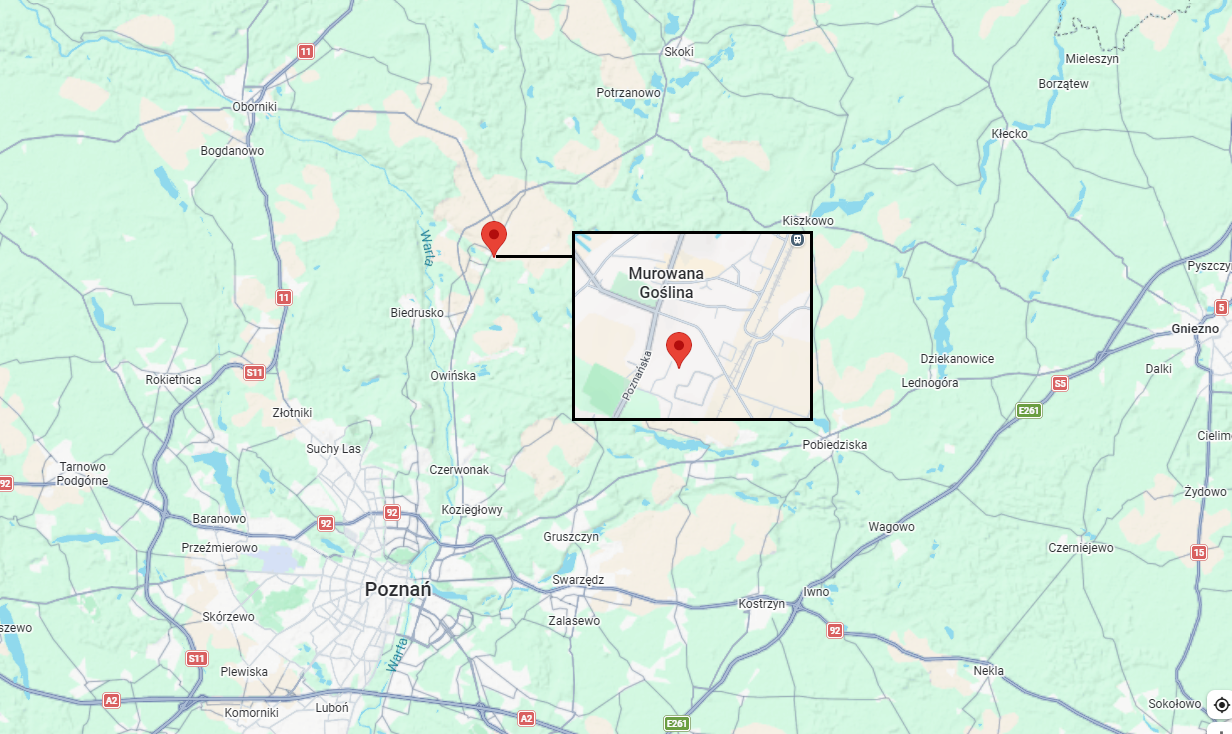
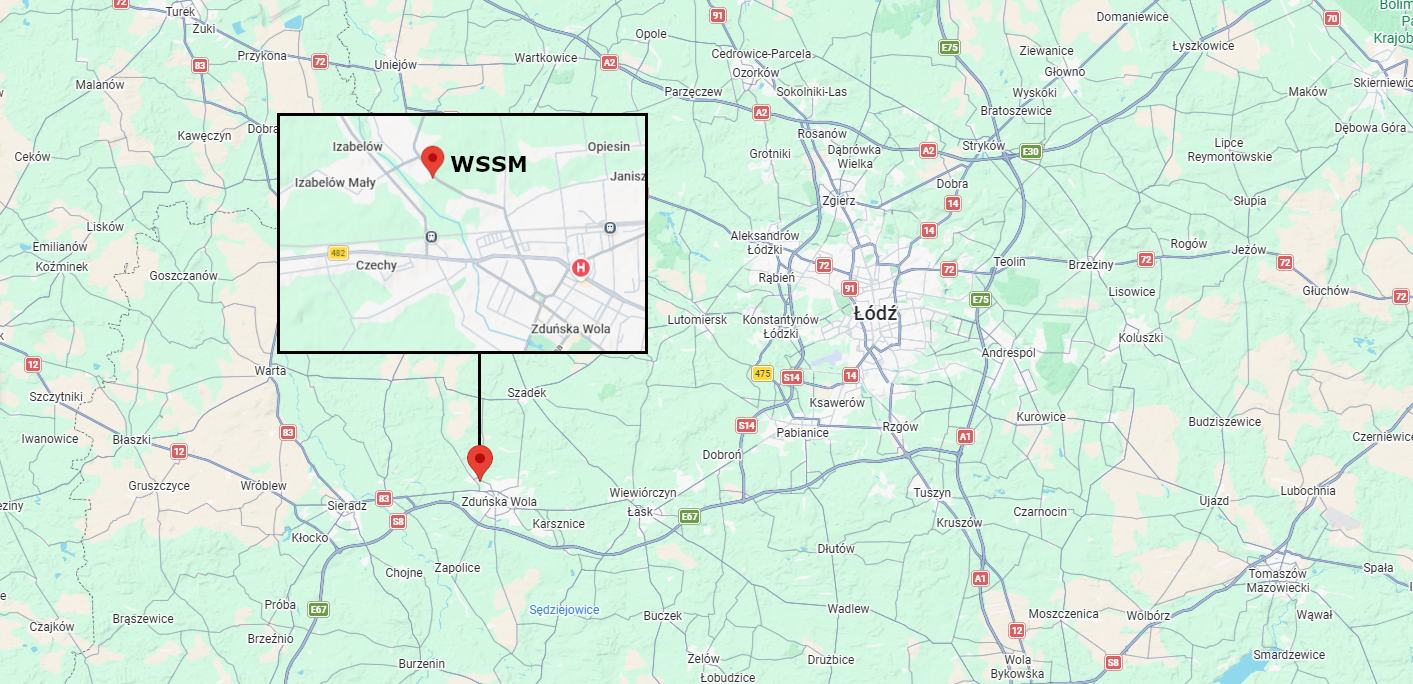
changes: location, contact, baner

diff --git a/js/app.js b/js/app.js
@@ -28,7 +28,7 @@ function showPage(page){
         app.innerHTML = `
           <h1>O firmie</h1>
           <div class="twoCol">
-            <img src="assets/baner.jpg" class="baner">
+            <img src="assets/baner.png" class="baner">
             <p>
               
               Lorem ipsum dolor sit amet consectetur adipisicing elit.
@@ -61,17 +61,61 @@ function showPage(page){
         break;
 
       case "kontakt":
-        app.innerHTML = `
-          <h1>Kontakt</h1>
-          <p>
-            WSSM Sp. z o.o.<br><br>
-            ul. Orlikowa 15<br>
-            98-220 Zduńska Wola<br><br>
-            Tel: +48 43 825 38 00<br>
-            sekretariat@wssm.pl
-          </p>
-        `;
-        break;
+  app.innerHTML = `
+    <style>
+      .kontakt-wrap {
+        display: flex;
+        justify-content: space-between;
+        gap: 40px;
+        flex-wrap: wrap;
+        margin-top: 20px;
+      }
+
+      .kontakt-box {
+        flex: 1;
+        min-width: 280px;
+        text-align: center;
+      }
+
+      .rejestry {
+        text-align: center;
+        margin-top: 40px;
+      }
+    </style>
+
+    <div class="kontakt-wrap">
+
+      <div class="kontakt-box">
+        <h1><b>Adres siedziby</b></h1>
+        <p>
+          <b>WSSM</b><br>
+          ul. Przemysłowa 12<br>
+          62-095 Murowana Goślina<br><br>
+        </p>
+      </div>
+
+      <div class="kontakt-box">
+        <h1><b>Adres korespondencyjny</b></h1>
+        <p>
+          <b>WSSM</b><br>
+          ul. Orlikowa 15<br>
+          98-220 Zduńska Wola<br>
+          Tel: +48 43 825 38 00<br>
+          sekretariat@wssm.pl
+        </p>
+      </div>
+
+    </div>
+
+    <div class="rejestry">
+      <br><br><p>
+        KRS:<b> 0000141813 </b></t>
+        NIP:<b> 7770001559 </b>
+        REGON:<b >000440118 </b>
+      </p>
+    </div>
+  `;
+  break;
     }
 
     app.style.opacity = 1;

diff --git a/index.html b/index.html
@@ -3,6 +3,9 @@
 <head>
   <meta charset="UTF-8" />
   <meta name="viewport" content="width=device-width, initial-scale=1.0"/>
+   <meta name="description" content="Strona WSSM - WIELKOPOLSKA SPÓŁDZIELCZA SKŁADNICA MLECZARSKA. ul. Orlikowa 15 98-220 Zduńska Wola Tel: +48 43 825 38 00 sekretariat@wssm.pl"
+  . 
+  >
   <title>WSSM</title>
 
   <link rel="stylesheet" href="css/style.css">
